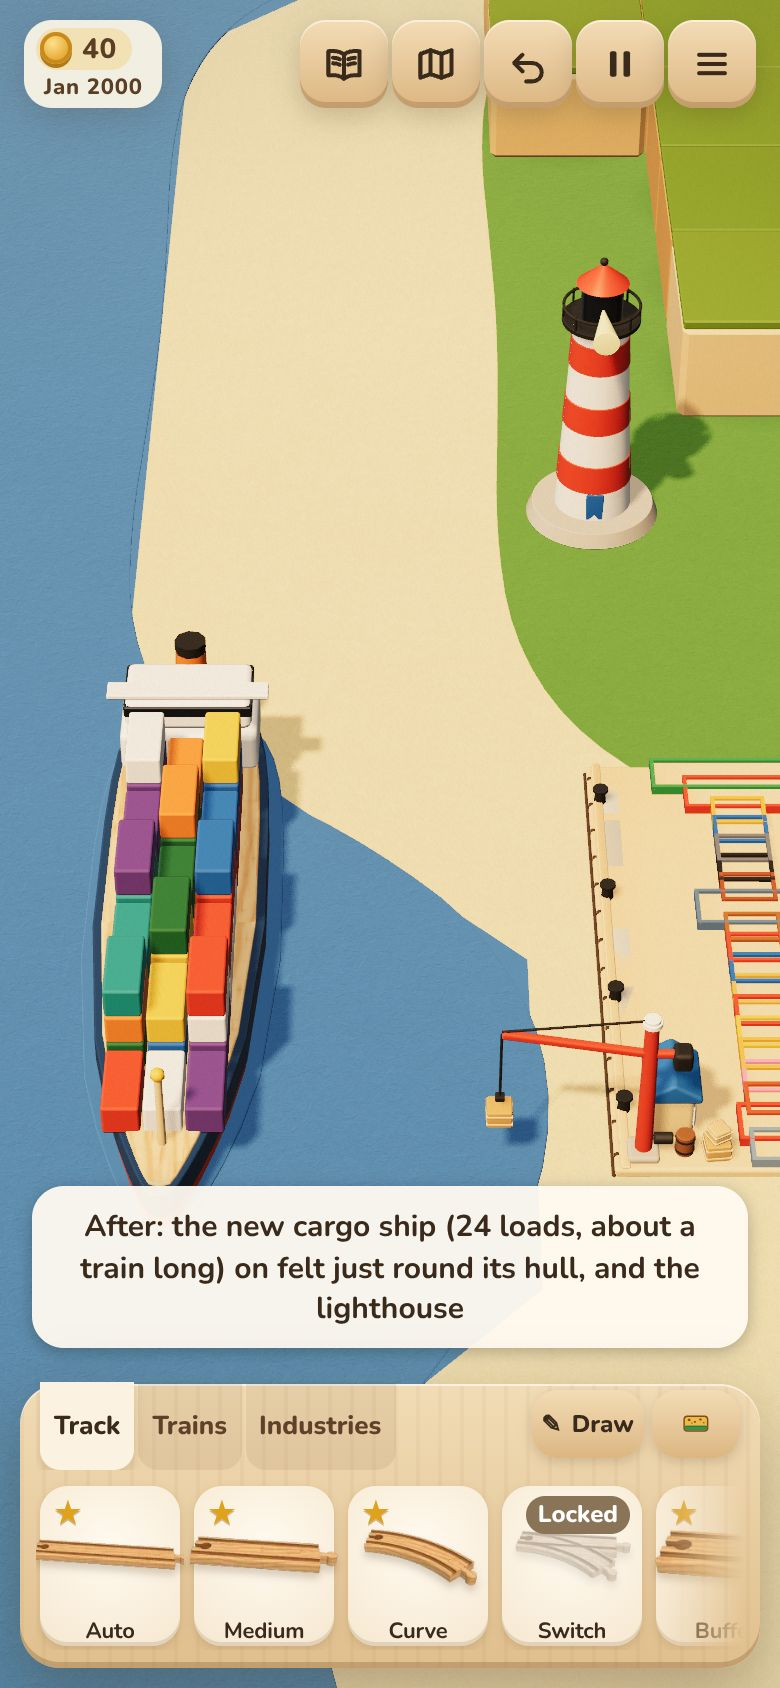
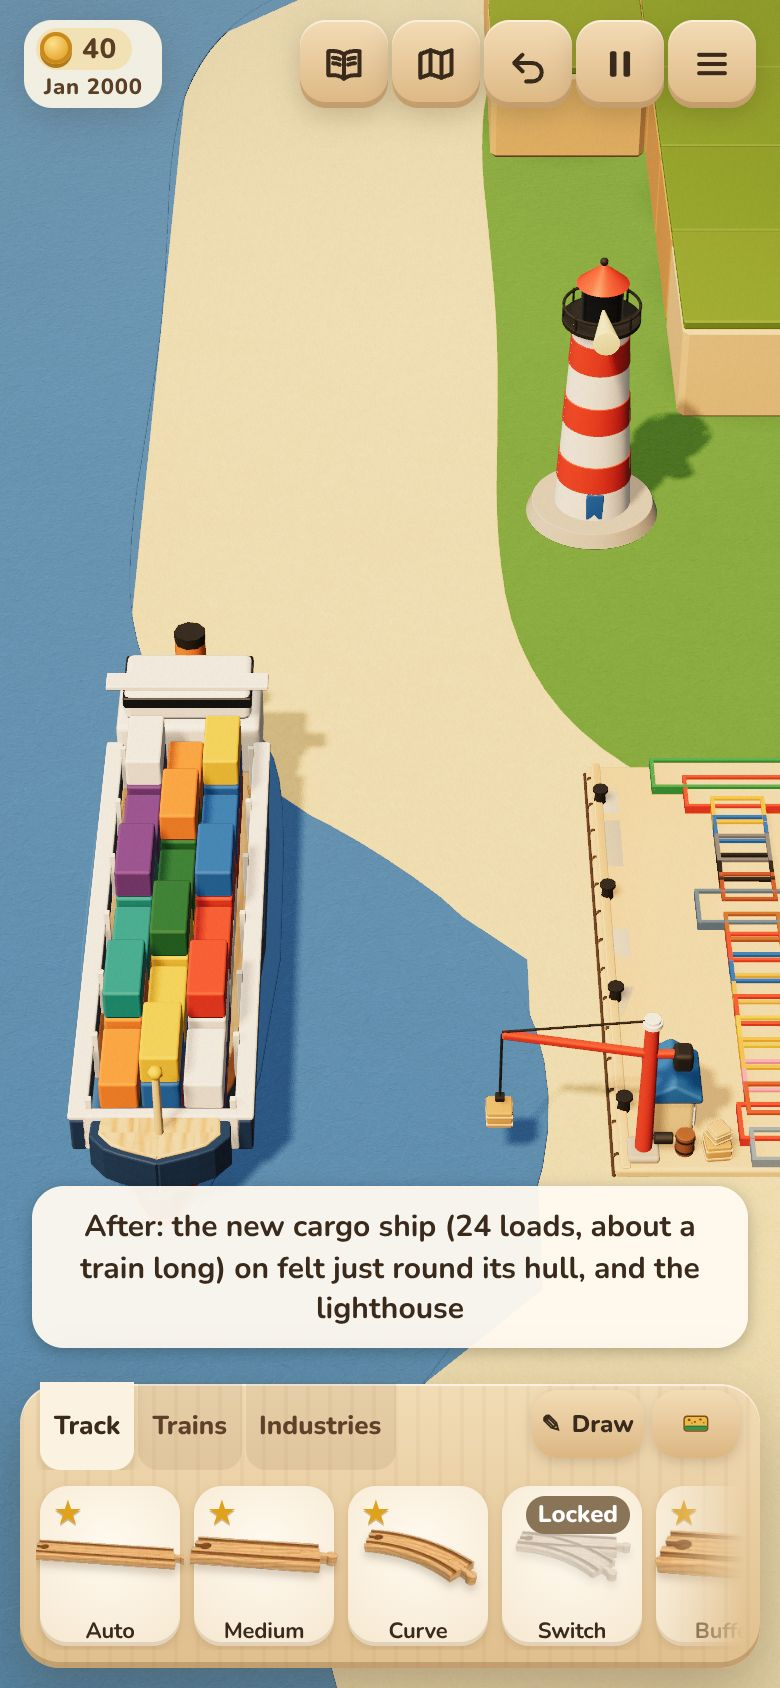
Cargo ship: raised sides, a hold and cell guides, so the containers sit down in it
The user: the ship should hold its containers better. Navy sides 13 mm above the deck, capped in white, a raised
forecastle closing the hold in front, a dark hold floor and white cell guides between the bays; the bottom tier
stands down inside. Before/after: docs/agents/shots/water-ship-{before,after}.jpg.

Claude-Session: https://claude.ai/code/session_0121cKbk42LEACSPmBf6qQgN

Changed region(s): [[0.0615, 0.3697, 0.4, 0.7085]]

diff --git a/src/catalogue/assets/water.ts b/src/catalogue/assets/water.ts
@@ -200,31 +200,52 @@ function barge(k: Kit, load: BargeLoad): Group {
 const SHIP_LEN = 240;
 const SHIP_W = 56;
 
+/** The cargo ship's hold: where its containers sit, between raised sides (x from the bridge to the forecastle). */
+const HOLD_AFT = -76;
+const HOLD_FORE = 96;
+/** How high the ship's sides stand above its deck: the bottom tier of containers sits down inside them. */
+const SIDES = 13;
+
 function cargoShip(k: Kit): Group {
-  const deck = 16.4;
+  const deck = 14.4;
+  const holdLen = HOLD_FORE - HOLD_AFT;
+  const holdMid = (HOLD_AFT + HOLD_FORE) / 2;
+  const side = SHIP_W / 2 - 2.5;
   const boat = pivot(
     "boat",
     0,
     0,
     0,
-    hull(k, SHIP_LEN, SHIP_W, 16, NAVY, TOY.red, 1),
+    hull(k, SHIP_LEN, SHIP_W, 14, NAVY, TOY.red, 1),
+    // The hold: a dark floor between raised navy sides, capped in white, and a raised forecastle at the bow that
+    // closes it in front, so the containers stand down in the ship rather than on a flat deck.
+    flat(k, k.cut, hullOutline(holdLen, SHIP_W - 8, 0), 0.8, deck),
+    k.box(k.paint(NAVY), holdLen + 8, SIDES, 5, 1, holdMid, deck, -side),
+    k.box(k.paint(NAVY), holdLen + 8, SIDES, 5, 1, holdMid, deck, side),
+    k.box(k.paint(TOY.white), holdLen + 8, 2, 6, 0.8, holdMid, deck + SIDES, -side),
+    k.box(k.paint(TOY.white), holdLen + 8, 2, 6, 0.8, holdMid, deck + SIDES, side),
+    flat(k, k.paint(NAVY), hullOutline(SHIP_LEN / 2 - HOLD_FORE, SHIP_W - 14, 1.4), SIDES, deck, (HOLD_FORE + SHIP_LEN / 2) / 2 - 2, 0),
+    flat(k, k.wood, hullOutline(SHIP_LEN / 2 - HOLD_FORE - 4, SHIP_W - 20, 1.4), 1, deck + SIDES, (HOLD_FORE + SHIP_LEN / 2) / 2 - 2, 0),
+    k.box(k.paint(TOY.white), 4, SIDES + 2, SHIP_W - 8, 1, HOLD_FORE + 2, deck),
     // The bridge at the stern: two white storeys, a window band, the funnel behind.
-    k.box(k.paint(TOY.white), 30, 16, 48, 2.5, -94, deck),
-    k.box(k.paint(TOY.white), 24, 12, 44, 2.5, -94, deck + 16),
-    k.box(k.glass, 24.6, 4.4, 44.6, 0.8, -94, deck + 22),
-    k.box(k.paint(TOY.white), 8, 2, 56, 0.6, -88, deck + 28),
-    k.cyl(k.paint(TOY.orange), 6, 20, -110, deck + 10, 0, 5.4, 18),
-    k.cyl(k.paint(TOY.black), 5.6, 4, -110, deck + 30, 0, 5.6, 18),
-    // A mast at the bow.
-    k.cyl(k.wood, 1.4, 30, 100, deck, 0, 1.2, 10),
-    k.ball(k.paint(TOY.yellow), 2.4, 100, deck + 31, 0),
+    k.box(k.paint(TOY.white), 30, 22, 50, 2.5, -94, deck),
+    k.box(k.paint(TOY.white), 24, 12, 44, 2.5, -94, deck + 22),
+    k.box(k.glass, 24.6, 4.4, 44.6, 0.8, -94, deck + 28),
+    k.box(k.paint(TOY.white), 8, 2, 56, 0.6, -88, deck + 34),
+    k.cyl(k.paint(TOY.orange), 6, 22, -110, deck + 14, 0, 5.4, 18),
+    k.cyl(k.paint(TOY.black), 5.6, 4, -110, deck + 36, 0, 5.6, 18),
+    // A mast on the forecastle.
+    k.cyl(k.wood, 1.4, 26, 106, deck + SIDES, 0, 1.2, 10),
+    k.ball(k.paint(TOY.yellow), 2.4, 106, deck + SIDES + 27, 0),
   );
+  // Cell guides: posts up the inside of the sides between the bays, which the containers slot between.
+  for (let col = 0; col <= 6; col++) for (const s of [-1, 1]) boat.add(k.box(k.paint(TOY.white), 2, SIDES + 6, 2, 0.4, -72 + col * 28, deck, s * (side - 3.4)));
   const colours = [TOY.red, TOY.blue, TOY.yellow, TOY.green, TOY.orange, TOY.teal, TOY.purple, TOY.white];
   let c = 0;
   for (let col = 0; col < 6; col++) {
     for (const z of [-13, 0, 13]) {
-      const layers = col === 5 ? 1 : 2 + ((col + Math.round(z)) & 1);
-      for (let l = 0; l < layers; l++) boat.add(k.box(k.paint(colours[c++ % colours.length]), 26, 11, 12, 1, -58 + col * 28, deck + l * 11.4, z));
+      const layers = 2 + ((col + Math.round(z)) & 1);
+      for (let l = 0; l < layers; l++) boat.add(k.box(k.paint(colours[c++ % colours.length]), 25, 11, 12, 1, -58 + col * 28, deck + 0.8 + l * 11.4, z));
     }
   }
   return k.group(boatFelt(k, SHIP_LEN, SHIP_W, 1, 140), boat);
